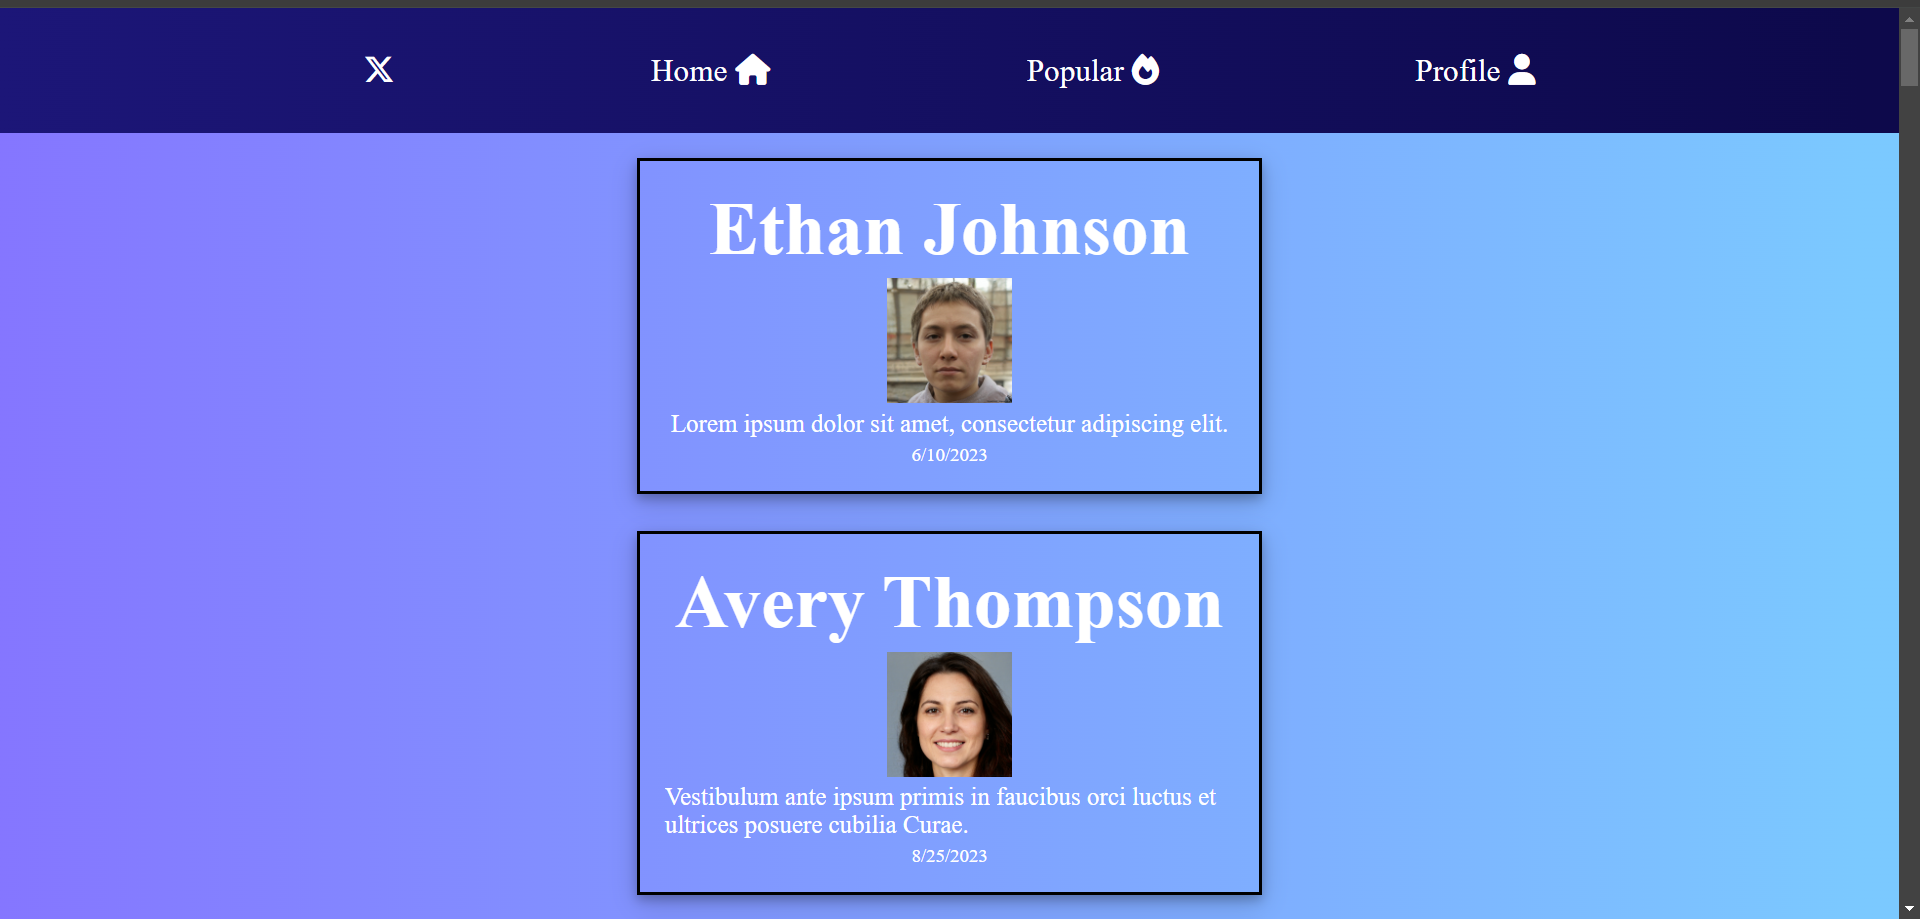
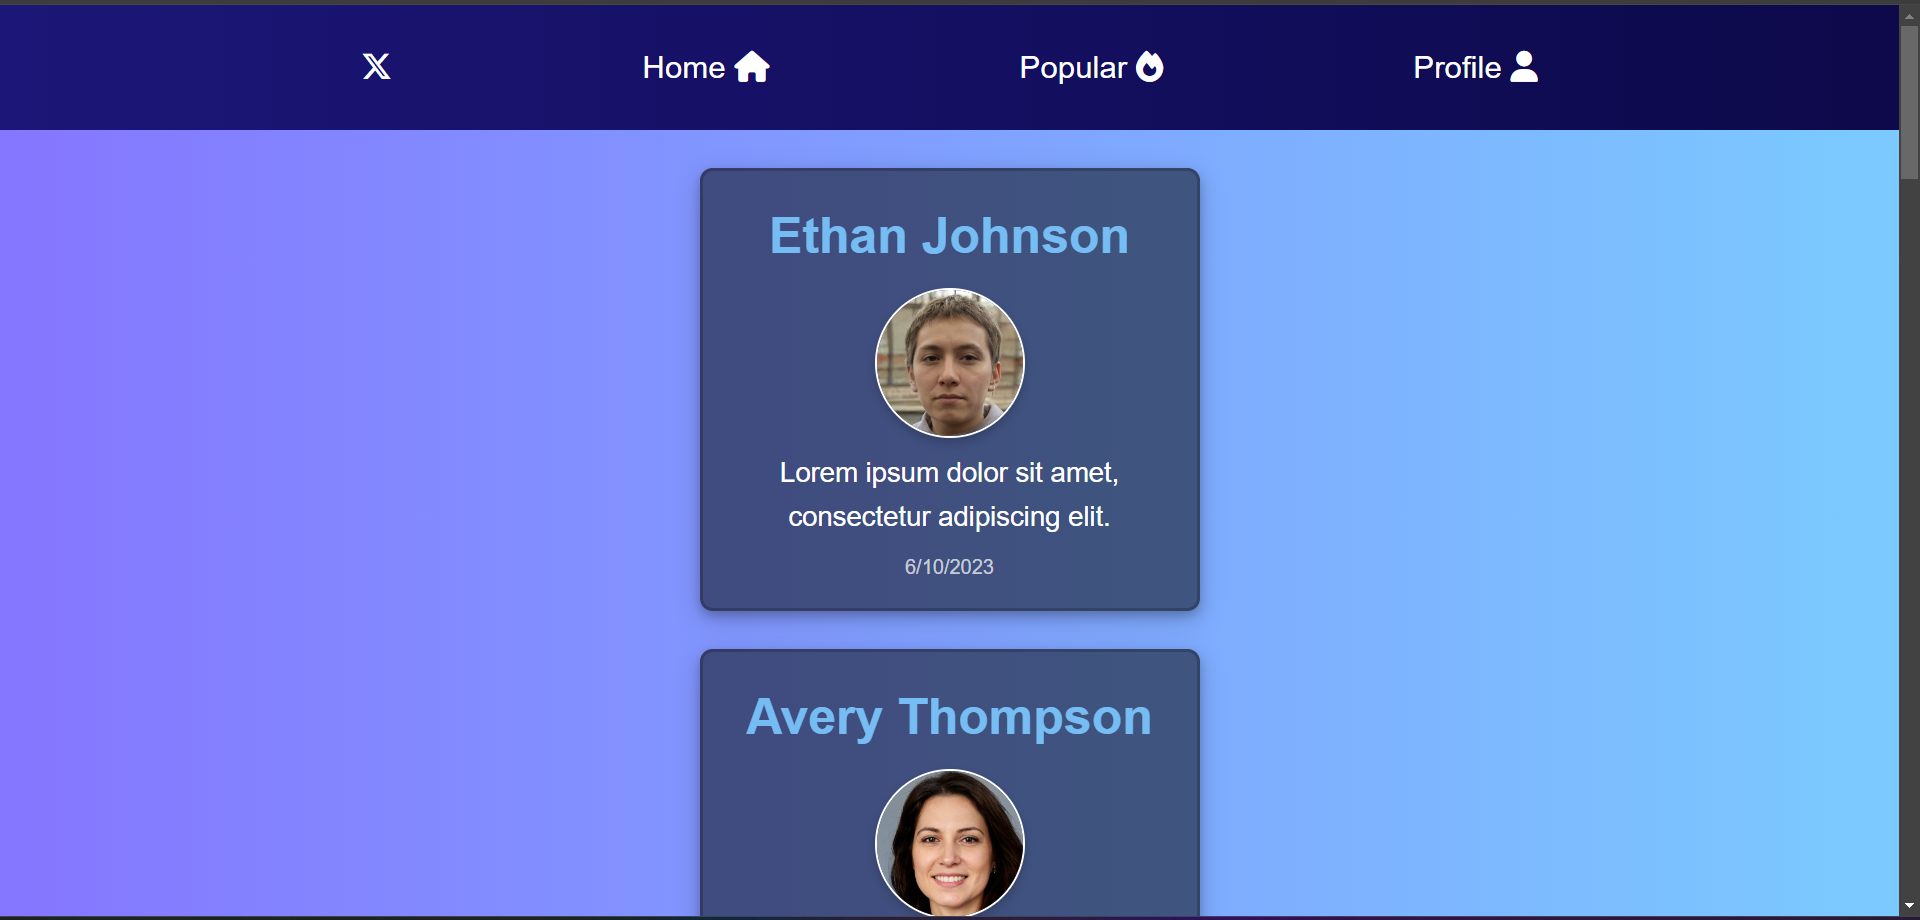
nieuw project toegevoegd, lorem ipsum vervangen met daadwerkelijke tekst

diff --git a/index.html b/index.html
@@ -17,19 +17,19 @@
     <header>
         <div class="logo">Portfolio</div>
         <nav class="nav__Items">
-            <a href="#">Home</a>
-            <a href="#popup-about" id="">About</a>
-            <a href="#projects">Projects</a>
+            <a href="#intro">Home</a>
+            <a href="#popup-about" id="">Over</a>
+            <a href="#projects">Projecten</a>
             <a href="#footer">Contact</a>
         </nav>
     </header>
 
 
-    <section class="intro">
+    <section id="intro" class="intro">
         <div class="introText">
             <h1 class="introTitle">Joost van der Laan</h1>
-            <h2 class="introSubTitle">Web-end Developer in opleiding</h2>
-            <p class="introDesc">Ambitieuze Web-Developer met een oog voor strak ontworpen, responsive websites</p>
+            <h2 class="introSubTitle">Full-Stack Developer</h2>
+            <p class="introDesc">Ambitieuze Developer met een oog voor strak ontworpen, responsive websites!</p>
         </div>
 
         <div class="introImage">
@@ -42,13 +42,23 @@
         <h1 class="aboutTitle">Over Mij</h1>
 
         <div class="aboutParagraphs">
+
             <div>
                 <h2 class="aboutParaTitle">Skills</h2>
-                <p class="aboutText">In de afgelopen 2 jaar heb ik een breed scala aan programmeer talen geleerd. Deze
-                    houden zich vooral bezig met
-                    de web kant, zoals HTML, CSS, SCSS, JS en REACT en backend talen zoals PHP, SQL. Naast de web kant
-                    heb ik ook ervaring met arduinos.
-                    De vaardigheid om omgevingen op te zetten in Docker zoals Wordpress heb ik ook ervaring mee.
+                <p class="aboutText">In de afgelopen twee jaar heb ik een breed scala aan programmeertalen geleerd, met
+                    een focus op webtechnologieën zoals HTML, CSS, SCSS, JavaScript en React, evenals back-end talen
+                    zoals PHP en SQL. Daarnaast heb ik ook ervaring opgedaan met Arduino en Docker.
+                </p>
+
+            </div>
+            <div>
+                <h2 class="aboutParaTitle">Wie?</h2>
+                <p class="aboutText">Mijn naam is Joost van der Laan, 20 jaar, en ik zit in het 3e jaar van het
+                    Mediacollege. Ik volg de
+                    opleiding tot Software developer. Mijn hobby's zijn gamen, films kijken en programmeren. Ik vind
+                    het leuk om iets te creeren.
+                    Tijdens mijn stage hoop ik wat ik geleerd
+                    heb op school in de praktijk toe te kunnen passen.
                 </p>
                 <!--
                  <span class="tag-cloud">HTML</span>
@@ -56,34 +66,25 @@
                 <span class="tag-cloud">SCSS</span>
                 <span class="tag-cloud">JS</span>
                 -->
-               
-            </div>
-            <div>
-                <h2 class="aboutParaTitle">Wie?</h2>
-                <p class="aboutText">Mijn naam is Joost van der Laan, 20 jaar, en ik zit in het 3e jaar van het
-                    Mediacollege. Ik volg de
-                    opleiding tot Front-end developer. Mijn hobby's zijn gamen, films kijken en programmeren. Ik vind
-                    het leuk om iets te creeren.
-                    Tijdens mijn stage hoop ik wat ik geleerd
-                    heb op school in de praktijk toe te kunnen passen
-                </p>
 
             </div>
+
         </div>
 
 
     </section>
 
-    <h1 class="projects__Title">Projects</h1>
+    <h1 class="projects__Title">Projecten</h1>
     <section id="projects" class="projects">
+
         <div class="card">
             <img src="img/socialScreenshot.png" alt="" class="cardImage">
-            <h1 class="cardTitle">Infinite scroll</h1>
+            <h1 class="cardTitle">Social Media Clone</h1>
             <hr>
-            <p class="cardDesc">Lorem ipsum dolor sit amet, consectetur adipisicing elit. Voluptatum cumque officiis
-                unde ducimus
-                praesentium quam ratione quisquam voluptate suscipit eum corrupti, consequatur neque quidem pariatur
-                doloribus adipisci nesciunt necessitatibus laboriosam.</p>
+            <p class="cardDesc">Project dat het gevoel van een social media platform nabootst. Via middel van de
+                introsection observer kan je oneindig lang doorscrollen net zoals op een platform zoals Twitter.
+                Foto's van "gebruikers" zijn gegenereerd door middel van AI.
+            </p>
             <div class="cardLanguages">
                 <p>HTML</p>
                 <p>CSS</p>
@@ -95,13 +96,30 @@
         </div>
 
         <div class="card">
+            <img src="img/blackjack.png" alt="" class="cardImage">
+            <h1 class="cardTitle">Blackjack</h1>
+            <hr>
+            <p class="cardDesc">Gemaakt in mijn vrije tijd. Gebruikt grotendeels alleen maar Javascript.</p>
+            <div class="cardLanguages">
+                <p>HTML</p>
+                <p>CSS</p>
+                <p>JS</p>
+            </div>
+            <button class="cardButton" role="button"> <a class="cardButtonText"
+                    href="https://35542.hosts2.ma-cloud.nl/Whack-a-mole/">Click here!</a></button>
+
+
+
+        </div>
+
+
+        <div class="card">
             <img src="img/colorScreenshot.png" alt="" class="cardImage">
             <h1 class="cardTitle">Color Picker</h1>
             <hr>
-            <p class="cardDesc">Lorem ipsum dolor sit amet, consectetur adipisicing elit. Voluptatum cumque officiis
-                unde ducimus
-                praesentium quam ratione quisquam voluptate suscipit eum corrupti, consequatur neque quidem pariatur
-                doloribus adipisci nesciunt necessitatibus laboriosam.</p>
+            <p class="cardDesc">Dit project gegenereerd kleuren met hsl codes, zodra je erop klikt dan wordt een HSL code gekopieerd
+                op je klembord en dan kan je deze gebruiken in bijvoorbeeld je eigen projecten!
+            </p>
             <div class="cardLanguages">
                 <p>HTML</p>
                 <p>CSS</p>
@@ -115,13 +133,10 @@
             <img src="img/cssArtScreen.png" alt="" class="cardImage">
             <h1 class="cardTitle">Spinning Diamond</h1>
             <hr>
-            <p class="cardDesc">Lorem ipsum dolor sit amet consectetur adipisicing elit. Vero excepturi quas fugiat
-                nesciunt harum consequuntur modi, architecto mollitia. Vero excepturi vitae blanditiis doloremque
-                dignissimos magni ea quas quasi sunt aut?</p>
+            <p class="cardDesc">Dit project is gemaakt om te laten zien hoeveel je kan met alleen maar CSS. Hier zit geen javascript in!</p>
             <div class="cardLanguages">
                 <p>HTML</p>
                 <p>CSS</p>
-                <p>JS</p>
             </div>
             <button class="cardButton" role="button"> <a class="cardButtonText"
                     href="https://35542.hosts2.ma-cloud.nl/Whack-a-mole/">Click here!</a></button>
@@ -134,12 +149,11 @@
             <img src="img/whackamole.png" alt="" class="cardImage">
             <h1 class="cardTitle">Whack-a-Mole</h1>
             <hr>
-            <p class="cardDesc">Onderdeel van opdracht om een site voor het Nationaal Videogame Museum te maken. Dit is
-                gemaakt via createJS</p>
+            <p class="cardDesc">Mini-game dat onderdeel uit maakte van een grotere site. Dit heb ik gemaakt via CreateJS!</p>
             <div class="cardLanguages">
                 <p>HTML</p>
                 <p>CSS</p>
-                <p>JS</p>
+                <p>CreateJS</p>
             </div>
             <button class="cardButton" role="button"> <a class="cardButtonText"
                     href="https://35542.hosts2.ma-cloud.nl/Whack-a-mole/">Click here!</a></button>
@@ -147,6 +161,11 @@
 
 
         </div>
+
+      
+
+
+        
     </section>
 
 
@@ -159,11 +178,10 @@
         <div>
             <nav class="footerItems">
                 <a href="#">EMAIL</a>
-                <a href="#">GITHUB</a>
-                <a href="#">WHATSAPP</a>
+                <a href="https://github.com/JoostVDL4">GITHUB</a>
             </nav>
         </div>
-  
+
     </footer>
 
 

diff --git a/css/style.css b/css/style.css
@@ -190,9 +190,9 @@ header {
   }
 }
 .projects__Title {
-  color: white;
-  display: flex;
+  color: rgb(106, 156, 137);
   justify-content: center;
+  text-align: center;
 }
 
 .projects {
@@ -200,12 +200,12 @@ header {
   grid-template-columns: repeat(2, 1fr);
   gap: 2rem;
   justify-content: space-between;
-  align-items: center;
+  align-items: start;
 }
 
 .card {
   display: flex;
-  height: 80%;
+  height: auto;
   background-color: rgb(22, 66, 60);
   border: 1px solid #ddd;
   border-radius: 8px;

diff --git a/scss/components/projects.scss b/scss/components/projects.scss
@@ -1,7 +1,7 @@
 .projects__Title {
-    color: white;
-    display: flex;
+    color: rgb(106, 156, 137); 
     justify-content: center;
+    text-align: center;
 }
 
 
@@ -10,13 +10,13 @@
     grid-template-columns: repeat(2, 1fr);
     gap: 2rem;
     justify-content: space-between;
-    align-items: center;
+    align-items: start;
     
 }
 
 .card {
     display: flex;
-    height: 80%;
+    height: auto;
     background-color: rgb(22, 66, 60); 
     border: 1px solid #ddd;
     border-radius: 8px;
